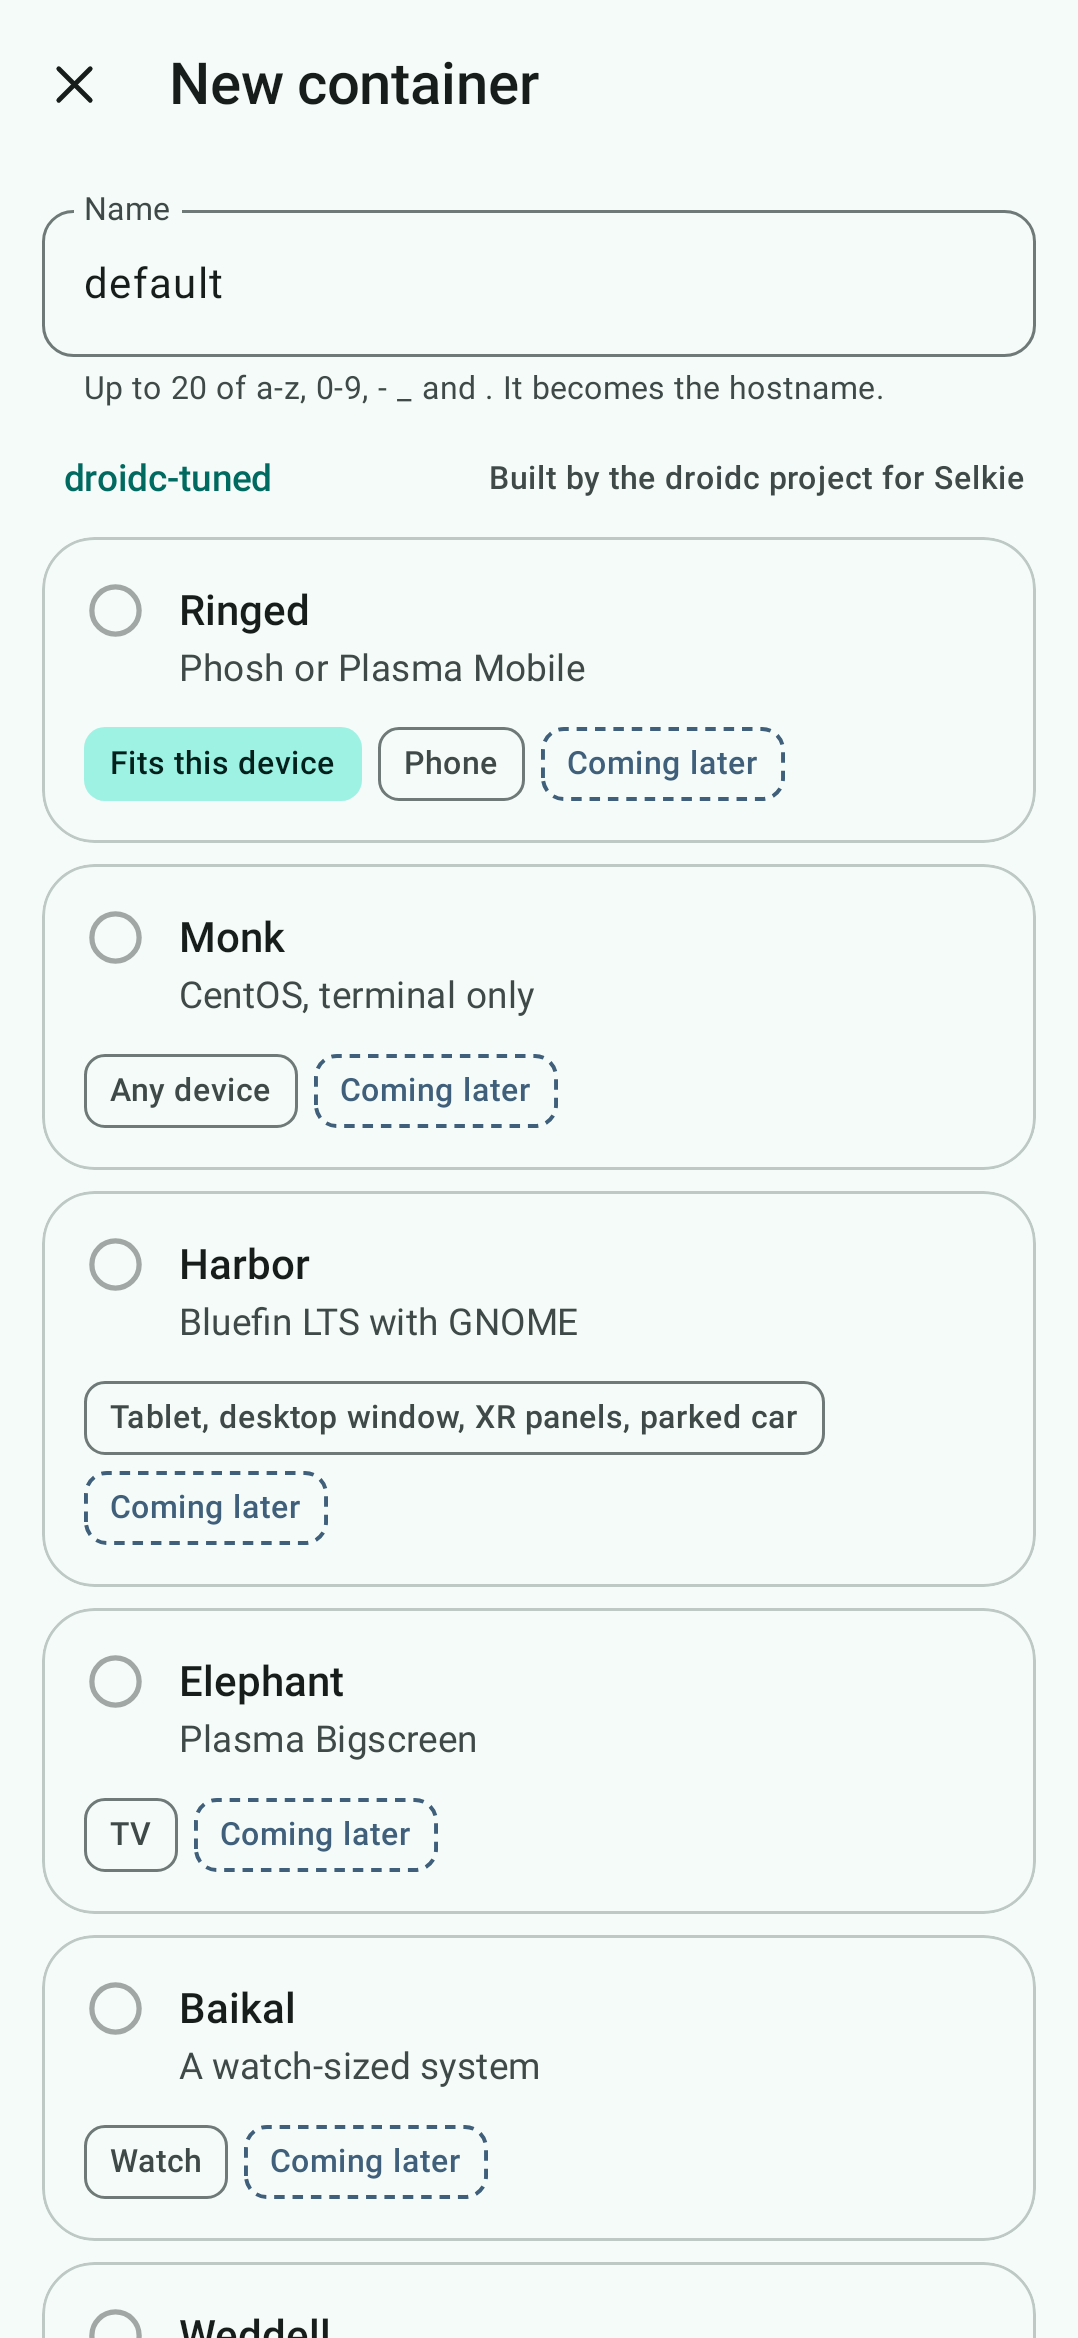
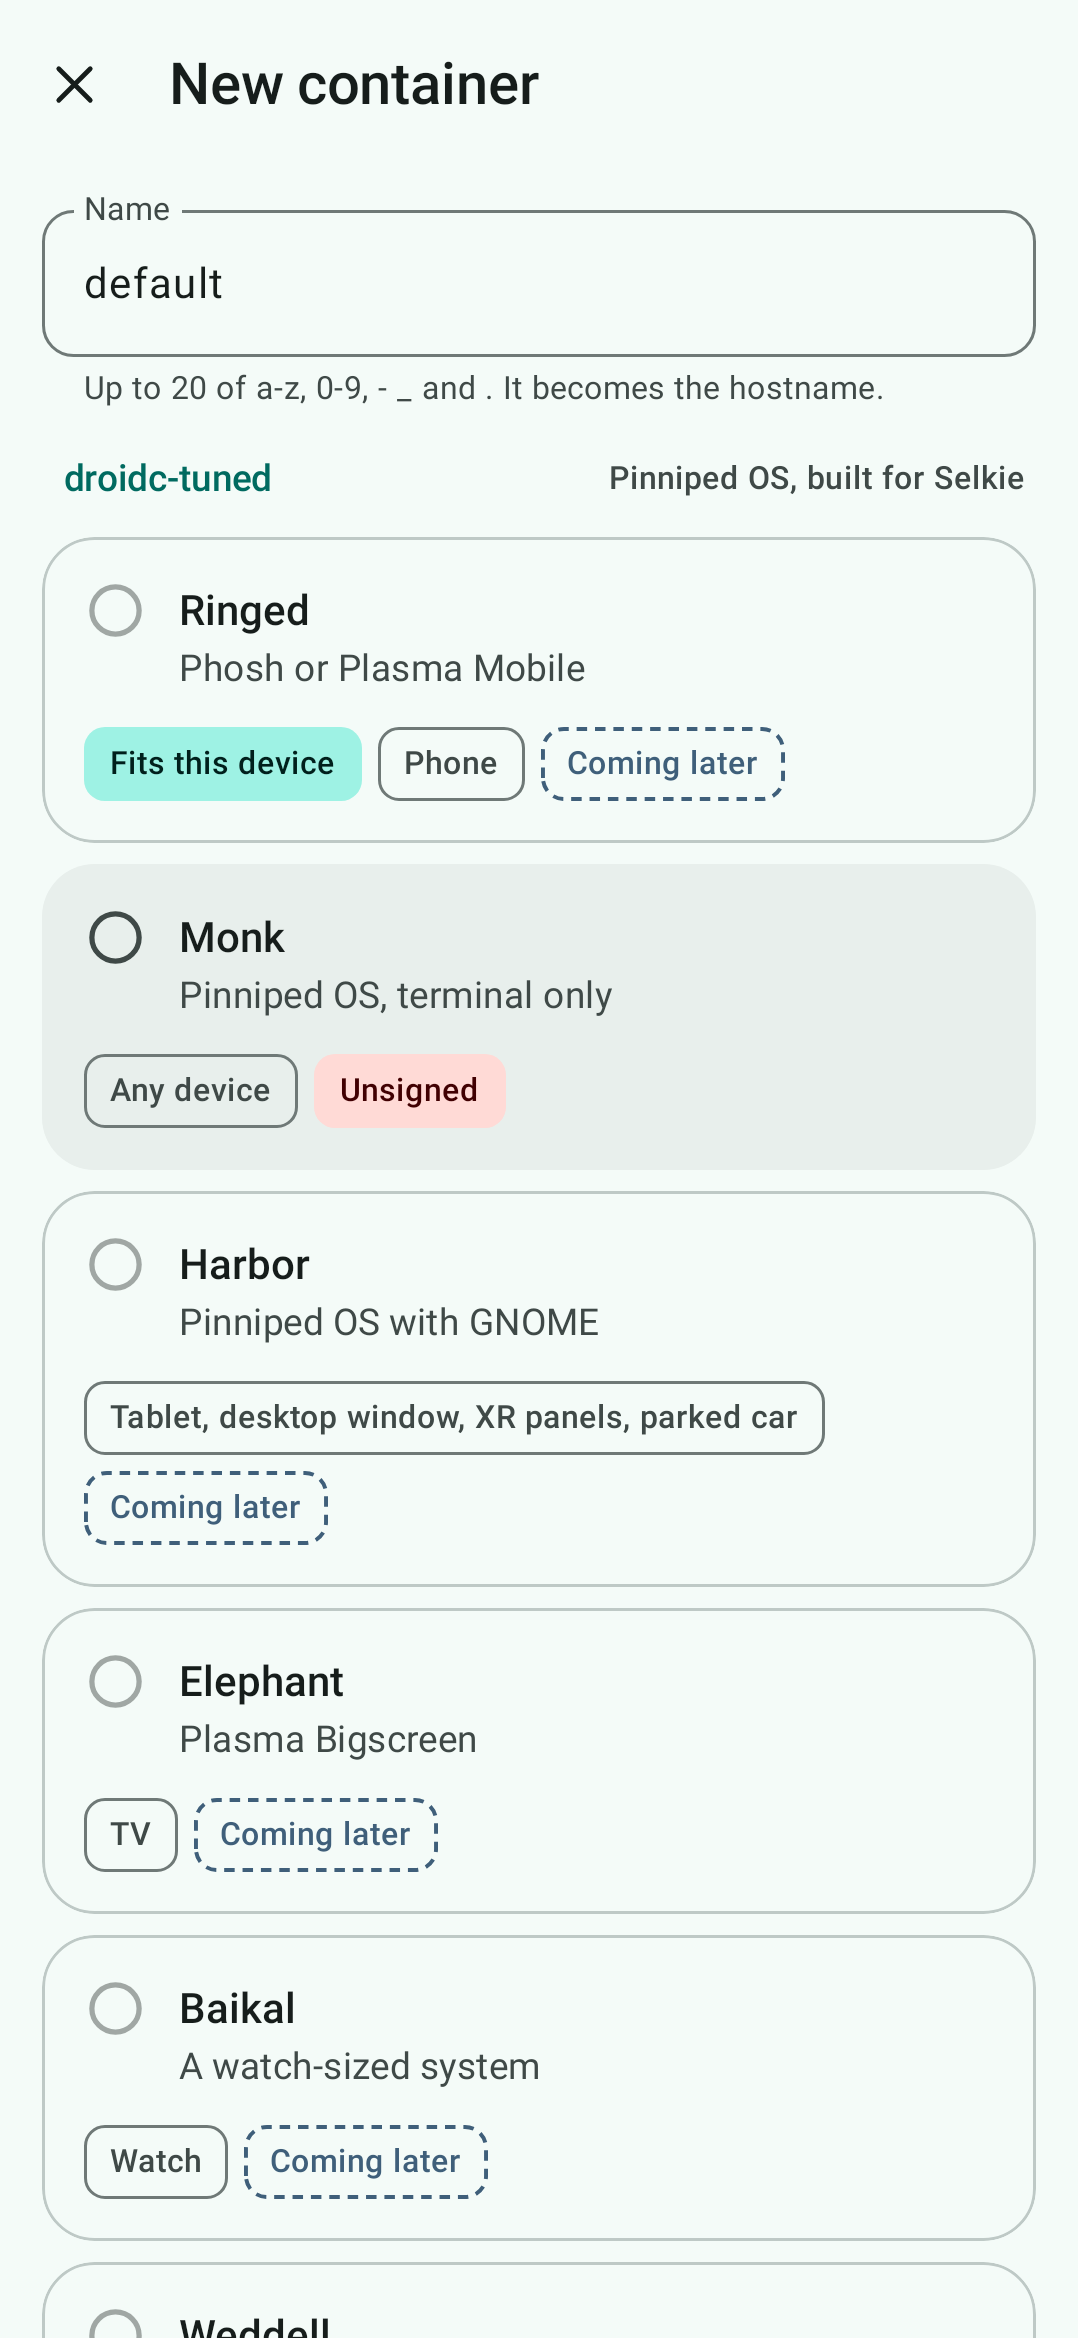
feat(picker): offer Pinniped OS as the droidc-tuned images (#174)
* feat(picker): offer Pinniped OS as the droidc-tuned images

Monk and Harbor are now Pinniped OS images (github.com/Pinniped-OS/factory).
Their summaries name Pinniped OS, the picker header says so, and a
PinnipedOs helper builds the factory's <image>:<release>-droidc refs.

Tuned variants gain a signed flag, false until droidc trusts Pinniped OS,
so a published one shows an Unsigned chip and asks before installing
unchecked instead of claiming a signature it doesn't have.

No ref is set yet: monk:45-droidc is built but ghcr.io doesn't serve it
without a sign-in, and harbor's droidc overlay isn't built.

[record screenshots]

* Re-record UI screenshots

Recorded by the record-screenshots job in run 46117178953.

* test(picker): cover Pinniped OS refs and unsigned tuned images

* feat(picker): offer Pinniped OS Monk now that it is published

ghcr.io/pinniped-os/monk:45-droidc now pulls without a sign-in (amd64
and arm64 in one index), so Monk gets its ref and can be chosen. It
stays unsigned until droidc trusts Pinniped OS, so it shows the
Unsigned chip and asks before installing.

An unsigned variant is never preselected: the preselection note
promises a signature check, so devices keep Bluefin LTS preselected
until a signed tuned image is ready, and the note says the Selkie
images aren't signed yet rather than not published.

Harbor's droidc overlay isn't published yet; its ref stays null.

[record screenshots]
[…]

diff --git a/app/src/main/kotlin/io/github/keplersj/selkie/ui/ImageCatalog.kt b/app/src/main/kotlin/io/github/keplersj/selkie/ui/ImageCatalog.kt
@@ -4,8 +4,24 @@ package io.github.keplersj.selkie.ui
 enum class DeviceClass { Phone, Foldable, Tablet, Desktop, Xr, Tv, Car, Watch }
 
 /**
- * An image the droidc project builds for Selkie. [ref] is null until the image is published; until then the
- * picker shows it as "Coming later" and it can't be chosen.
+ * Pinniped OS, the distro droidc-tuned images come from. Its factory (github.com/Pinniped-OS/factory) tags
+ * images `<image>:<release>[-<platform>]`: no suffix is the generic multi-arch UEFI image, and `-droidc` is the
+ * overlay tuned for droidc and Selkie, with aarch64 and x86_64 (the emulator) in one index.
+ */
+object PinnipedOs {
+    const val REGISTRY = "ghcr.io/pinniped-os"
+    /** Follows Fedora. */
+    const val RELEASE = "45"
+    const val PLATFORM = "droidc"
+
+    /** The droidc overlay of [image], such as `ghcr.io/pinniped-os/monk:45-droidc`. */
+    fun droidcRef(image: String): String = "$REGISTRY/$image:$RELEASE-$PLATFORM"
+}
+
+/**
+ * A droidc-tuned Pinniped OS image. [ref] is null until Selkie can pull it; until then the picker shows it as
+ * "Coming later" and it can't be chosen. [signed] is false until droidc's default policy trusts the image's
+ * signer, so the picker marks it Unsigned and asks before installing it unchecked.
  */
 data class TunedVariant(
     val name: String,
@@ -15,6 +31,7 @@ data class TunedVariant(
     val fits: Set<DeviceClass>,
     val ref: String?,
     val anyDevice: Boolean = false,
+    val signed: Boolean = false,
 ) {
     val ready: Boolean get() = ref != null
 }
@@ -30,12 +47,14 @@ sealed interface ImageSelection {
 }
 
 object ImageCatalog {
-    // Harbor and Monk are the first two to be built (droidc-dev images factory). None is published yet, so
-    // every ref is null; set one when its image ships and the picker offers it.
+    // Harbor and Monk are Pinniped OS's first two images. Monk's droidc overlay is published; Harbor only has the
+    // generic harbor:45 so far, so its ref stays null until PinnipedOs.droidcRef("harbor") is published. Set
+    // signed = true once droidc's default policy trusts Pinniped OS (droidc-dev/droidc#62).
     val tuned: List<TunedVariant> = listOf(
-        TunedVariant("Harbor", "Bluefin LTS with GNOME", "Tablet, desktop window, XR panels, parked car",
+        TunedVariant("Harbor", "Pinniped OS with GNOME", "Tablet, desktop window, XR panels, parked car",
             setOf(DeviceClass.Foldable, DeviceClass.Tablet, DeviceClass.Desktop, DeviceClass.Xr, DeviceClass.Car), ref = null),
-        TunedVariant("Monk", "CentOS, terminal only", "Any device", emptySet(), ref = null, anyDevice = true),
+        TunedVariant("Monk", "Pinniped OS, terminal only", "Any device", emptySet(),
+            ref = PinnipedOs.droidcRef("monk"), anyDevice = true),
         TunedVariant("Ringed", "Phosh or Plasma Mobile", "Phone", setOf(DeviceClass.Phone, DeviceClass.Foldable), ref = null),
         TunedVariant("Elephant", "Plasma Bigscreen", "TV", setOf(DeviceClass.Tv), ref = null),
         TunedVariant("Baikal", "A watch-sized system", "Watch", setOf(DeviceClass.Watch), ref = null),
@@ -60,9 +79,13 @@ object ImageCatalog {
         return fit + any + otherReady + notReady
     }
 
-    /** The first ready variant in [orderedFor] order (Monk on a phone, once published), else Bluefin LTS. */
+    /**
+     * The first ready, signed variant in [orderedFor] order (Monk on a phone, once droidc trusts it), else
+     * Bluefin LTS. An unsigned variant can be chosen but is never preselected, since the preselection note
+     * promises a signature check.
+     */
     fun defaultSelection(device: DeviceClass, variants: List<TunedVariant> = tuned): ImageSelection =
-        orderedFor(device, variants).firstOrNull { it.ready }?.let { ImageSelection.Tuned(it.name) }
+        orderedFor(device, variants).firstOrNull { it.ready && it.signed }?.let { ImageSelection.Tuned(it.name) }
             ?: ImageSelection.Known(known.first { it.signed }.id)
 
     /** The selection that matches an image already in use, or a custom address. */
@@ -92,7 +115,7 @@ object ImageCatalog {
 
     fun resolve(selection: ImageSelection, customRef: String, variants: List<TunedVariant> = tuned): Resolved? = when (selection) {
         is ImageSelection.Tuned -> variants.firstOrNull { it.name == selection.name && it.ready }
-            ?.let { Resolved(it.name, it.ref!!, signed = true) }
+            ?.let { Resolved(it.name, it.ref!!, it.signed) }
         is ImageSelection.Known -> known.firstOrNull { it.id == selection.id }?.let { Resolved(it.title, it.ref, it.signed) }
         ImageSelection.Custom -> customRef.trim().takeIf { isPlausibleRef(it) }
             ?.let { Resolved(it.substringAfterLast('/').ifEmpty { it }, it, signed = true) }

diff --git a/app/src/test/kotlin/io/github/keplersj/selkie/ui/ImageCatalogTest.kt b/app/src/test/kotlin/io/github/keplersj/selkie/ui/ImageCatalogTest.kt
@@ -7,11 +7,11 @@ import org.junit.Assert.assertTrue
 import org.junit.Test
 
 class ImageCatalogTest {
-    /** The catalog with Harbor and Monk published, as the design assumes. */
+    /** The catalog with Harbor and Monk published and trusted, as the design assumes. */
     private val published = ImageCatalog.tuned.map {
         when (it.name) {
-            "Harbor" -> it.copy(ref = "ghcr.io/droidc-dev/harbor:stable")
-            "Monk" -> it.copy(ref = "ghcr.io/droidc-dev/monk:stable")
+            "Harbor" -> it.copy(ref = PinnipedOs.droidcRef("harbor"), signed = true)
+            "Monk" -> it.copy(ref = PinnipedOs.droidcRef("monk"), signed = true)
             else -> it
         }
     }
@@ -33,23 +33,32 @@ class ImageCatalogTest {
         assertEquals(ImageSelection.Tuned("Harbor"), ImageCatalog.defaultSelection(DeviceClass.Tablet, published))
     }
 
-    @Test fun withNothingPublishedTheSignedBluefinIsPreselected() {
+    @Test fun withNoSignedTunedImageTheSignedBluefinIsPreselected() {
+        val nothing = ImageCatalog.tuned.map { it.copy(ref = null) }
         for (d in DeviceClass.entries) {
+            assertEquals(ImageSelection.Known("bluefin"), ImageCatalog.defaultSelection(d, nothing))
+            // Monk is published but unsigned, so it can be chosen and is never preselected.
             assertEquals(ImageSelection.Known("bluefin"), ImageCatalog.defaultSelection(d))
         }
-        assertTrue(ImageCatalog.tuned.none { it.ready })
+    }
+
+    @Test fun monkIsPublishedFromPinnipedOs() {
+        val monk = ImageCatalog.tuned.first { it.name == "Monk" }
+        assertTrue(monk.ready)
+        assertEquals("ghcr.io/pinniped-os/monk:45-droidc", monk.ref)
+        assertFalse(ImageCatalog.tuned.first { it.name == "Harbor" }.ready)
     }
 
     @Test fun anUnpublishedVariantResolvesToNothing() {
-        assertNull(ImageCatalog.resolve(ImageSelection.Tuned("Monk"), ""))
-        assertEquals("ghcr.io/droidc-dev/monk:stable", ImageCatalog.resolve(ImageSelection.Tuned("Monk"), "", published)?.ref)
+        assertNull(ImageCatalog.resolve(ImageSelection.Tuned("Harbor"), ""))
+        assertEquals("ghcr.io/pinniped-os/harbor:45-droidc", ImageCatalog.resolve(ImageSelection.Tuned("Harbor"), "", published)?.ref)
     }
 
     @Test fun selectionForCurrentImage() {
         assertEquals(ImageSelection.Known("centos"), ImageCatalog.selectionFor(Images.CENTOS, DeviceClass.Phone))
         assertEquals(ImageSelection.Custom, ImageCatalog.selectionFor("ghcr.io/example/x:1", DeviceClass.Phone))
         assertEquals(ImageSelection.Tuned("Harbor"),
-            ImageCatalog.selectionFor("ghcr.io/droidc-dev/harbor:stable", DeviceClass.Phone, published))
+            ImageCatalog.selectionFor("ghcr.io/pinniped-os/harbor:45-droidc", DeviceClass.Phone, published))
     }
 
     @Test fun centosIsMarkedUnsigned() {
@@ -77,5 +86,16 @@ class ImageCatalogTest {
             ImageCatalog.emptyStateLead(ImageCatalog.tuned.map { it.copy(ref = null) }))
         assertEquals("Start with an image made for Selkie, or use any other.",
             ImageCatalog.emptyStateLead(ImageCatalog.tuned.map { if (it.name == "Monk") it.copy(ref = "ghcr.io/x/monk:1") else it }))
+    }
+
+    @Test fun pinnipedDroidcRefsFollowTheFactoryTagScheme() {
+        assertEquals("ghcr.io/pinniped-os/monk:45-droidc", PinnipedOs.droidcRef("monk"))
+        assertEquals("ghcr.io/pinniped-os/harbor:45-droidc", PinnipedOs.droidcRef("harbor"))
+    }
+
+    @Test fun tunedVariantsAreUnsignedUntilDroidcTrustsThem() {
+        assertTrue(ImageCatalog.tuned.none { it.signed })
+        assertFalse(ImageCatalog.resolve(ImageSelection.Tuned("Monk"), "")!!.signed)
+        assertTrue(ImageCatalog.resolve(ImageSelection.Tuned("Monk"), "", published)!!.signed)
     }
 }

diff --git a/app/src/main/kotlin/io/github/keplersj/selkie/ui/ImagePicker.kt b/app/src/main/kotlin/io/github/keplersj/selkie/ui/ImagePicker.kt
@@ -54,7 +54,7 @@ fun deviceClassForWidth(widthDp: Int): DeviceClass = when {
 }
 
 /**
- * The image picker: droidc-tuned variants, other bootc images Selkie knows, and any other address. The
+ * The image picker: droidc-tuned Pinniped OS variants, other bootc images Selkie knows, and any other address. The
  * cards are one radio group, so TalkBack reads each as "radio button, selected/not selected, n of m".
  */
 @Composable
@@ -72,7 +72,7 @@ fun ImagePicker(
         Row(Modifier.fillMaxWidth().padding(horizontal = 4.dp), verticalAlignment = Alignment.CenterVertically) {
             SectionTitle("droidc-tuned", Modifier.padding(end = 8.dp))
             Spacer(Modifier.weight(1f))
-            Text("Built by the droidc project for Selkie", style = MaterialTheme.typography.labelMedium,
+            Text("Pinniped OS, built for Selkie", style = MaterialTheme.typography.labelMedium,
                 color = MaterialTheme.colorScheme.onSurfaceVariant)
         }
         val ordered = ImageCatalog.orderedFor(device, variants)
@@ -85,6 +85,7 @@ fun ImagePicker(
                     if (device in v.fits) StatusChip("Fits this device", tone = ChipTone.Ok)
                     StatusChip(v.forText)
                     if (!v.ready) PlannedChip("Coming later")
+                    else if (!v.signed) StatusChip("Unsigned", tone = ChipTone.Bad)
                 },
             )
         }

diff --git a/app/src/main/kotlin/io/github/keplersj/selkie/ui/ImageScreens.kt b/app/src/main/kotlin/io/github/keplersj/selkie/ui/ImageScreens.kt
@@ -199,8 +199,11 @@ private fun PreselectNote(preselected: ImageSelection, variants: List<TunedVaria
             "${v.name} is preselected" to "It's built for this kind of device. Every image's signature is checked " +
                 "before anything is downloaded."
         }
-        else -> "Bluefin LTS is preselected" to "The images built for Selkie aren't published yet. Bluefin LTS is " +
-            "signed and has a GNOME desktop. Every image's signature is checked before anything is downloaded."
+        else -> "Bluefin LTS is preselected" to (
+            if (variants.any { it.ready }) "The images built for Selkie aren't signed yet. " else
+                "The images built for Selkie aren't published yet. "
+            ) + "Bluefin LTS is signed and has a GNOME desktop. Every image's signature is checked before anything " +
+            "is downloaded."
     }
     SelkieCard(tone = CardTone.Low, shape = MaterialTheme.shapes.extraLarge) {
         Row(horizontalArrangement = Arrangement.spacedBy(12.dp), verticalAlignment = Alignment.Top) {

diff --git a/app/src/main/kotlin/io/github/keplersj/selkie/ui/Previews.kt b/app/src/main/kotlin/io/github/keplersj/selkie/ui/Previews.kt
@@ -287,11 +287,11 @@ fun HomeErrorPreview() = Home(Fixtures.homeError)
 
 // --- New container and change image ---
 
-/** Harbor and Monk as if published, to show the design's preselection. */
+/** Harbor and Monk as if published and trusted, to show the design's preselection. */
 private val publishedVariants = ImageCatalog.tuned.map {
     when (it.name) {
-        "Harbor" -> it.copy(ref = "ghcr.io/droidc-dev/harbor:stable")
-        "Monk" -> it.copy(ref = "ghcr.io/droidc-dev/monk:stable")
+        "Harbor" -> it.copy(ref = PinnipedOs.droidcRef("harbor"), signed = true)
+        "Monk" -> it.copy(ref = PinnipedOs.droidcRef("monk"), signed = true)
         else -> it
     }
 }
